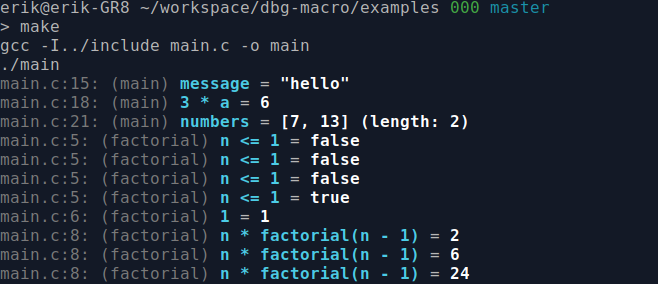
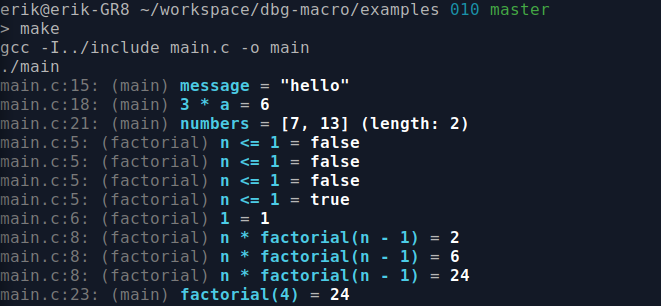
dbg() of factorial end result.

diff --git a/examples/main.c b/examples/main.c
@@ -20,7 +20,7 @@ int main()
     int numbers[2] = { b, 13 };
     dbga(numbers, 2);  // main.c:21: numbers = [7, 13] (length: 2)
 
-    factorial(4);
+    dbg(factorial(4));
 
     return (0);
 }
